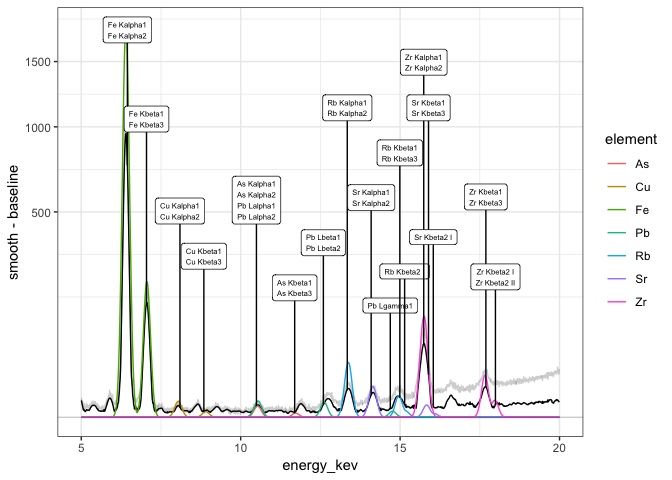
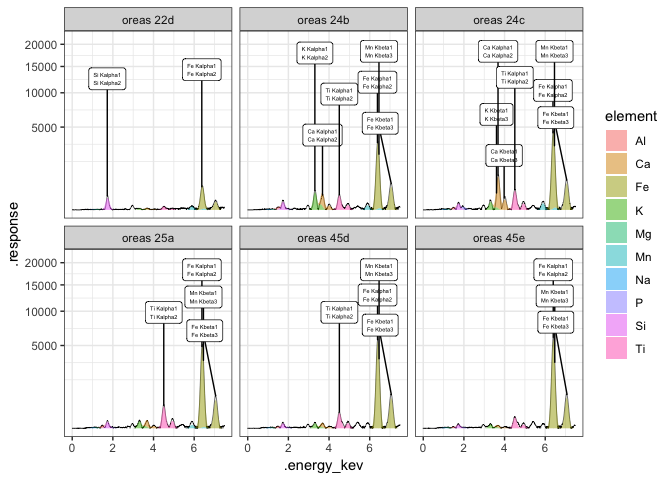
add deconv to readme

Changed region(s): [[0.0, 0.0, 1.0, 1.0], [0.0312, 0.25, 0.0938, 0.2812]]

diff --git a/README.md b/README.md
@@ -87,120 +87,54 @@ Deconvolution
 -------------
 
 ``` r
-spec_simple <- specs %>%
-  slice(7) %>%
+deconvoluted <- specs %>%
+  filter(ConditionSet == "Omnian2") %>%
   xrf_add_baseline_snip(.values = .spectra$cps, iterations = 20) %>%
   xrf_add_smooth_filter(filter = xrf_filter_gaussian(width = 7, alpha = 2.5), .iter = 5) %>%
-  pull(.spectra) %>%
-  first() %>%
-  filter(energy_kev <= 7.5)
+  xrf_add_deconvolution_gls(energy_max_kev = 7.5, peaks = xrf_energies("major"))
 
-rel_peaks <- xrf_energies("major", beam_energy_kev = 10) %>%
-  mutate(
-    jump_ratio = xrf_absorption_jump_ratio(element, edge),
-    transition_prob = xrf_transition_probability(element, trans),
-    yield = xrf_fluorescence_yield(element, edge),
-    excitation_factor = jump_ratio * transition_prob * yield
-  ) %>%
-  group_by(element) %>%
-  mutate(q_norm = excitation_factor / max(excitation_factor)) %>%
-  ungroup() %>%
-  arrange(element, desc(q_norm)) %>%
-  select(element, trans, trans_siegbahn, q_norm, everything())
+certified_vals <- system.file("spectra_files/oreas_concentrations.csv", package = "xrf") %>%
+  read_csv(col_types = cols(standard = col_character(), value = col_double(), .default = col_guess())) %>%
+  filter(method == "4-Acid Digestion") %>%
+  select(SampleIdent = standard, element, certified_value = value)
 
-g <- function(x, mu = 0, sigma = 1, height = 1) height * exp(-0.5 * ((x - mu) / sigma) ^ 2)
+deconv <- deconvoluted %>% 
+  xrf_despectra() %>% 
+  unnest(map(.data$.deconvolution, "peaks")) %>%
+  select(SampleIdent, ConditionSet, kV, element, height, peak_area, peak_area_se)
 
-responses_raw <- rel_peaks %>%
-  mutate(response = map2(energy_kev, q_norm, ~g(spec_simple$energy_kev, mu = .x, sigma = 0.05, height = .y))) %>%
-  group_by(element) %>%
-  summarise(response = list(reduce(response, `+`)), energy_kev = list(spec_simple$energy_kev)) %>%
-  ungroup() %>%
-  mutate(
-    # my guesses at making the things line up right
-    scale = unname(c(
-      "Al" = 10, "Ca" = 80, "Fe" = 5000, 
-      "K" = 50, "Mg" = 5, "Mn" = 40, 
-      "Na" = 5, "P" = 5, "Si"= 90, "Ti" = 420
-    )[element])
-  ) 
-
-# least squares estimation of coefficients
-# Allowing an intercept doesn't work well...produces lots of negative coeffs
-# intercept <- rep(1, length(spec_simple$energy_kev))
-X <- do.call(cbind, responses_raw$response)
-colnames(X) <- responses_raw$element
-df <- as_tibble(cbind(response = spec_simple$smooth - spec_simple$baseline, X))
-fit <- lm(response ~ 0 + ., data = df)
-
-responses_raw$scale_least_sq <- coefficients(fit)
-
-responses <- responses_raw %>%
-  unnest(response, energy_kev)
-
-ggplot(spec_simple, aes(energy_kev, smooth - baseline)) +
-  geom_line(aes(y = cps), alpha = 0.2) +
-  geom_line() +
-  geom_line(aes(y = response * scale_least_sq, col = element), data = responses) +
-  geom_hline(yintercept = 0, alpha = 0.2) +
-  stat_xrf_peaks(epsilon = 5, nudge_y = 20, element_list = "major") +
-  scale_y_sqrt()
+deconv %>%
+  left_join(certified_vals, by = c("SampleIdent", "element")) %>%
+  ggplot(aes(x = certified_value, y = peak_area, col = SampleIdent)) +
+  geom_point() +
+  facet_wrap(~element, scales = "free")
+#> Warning: Removed 11 rows containing missing values (geom_point).
 ```
 
 ![](README-unnamed-chunk-4-1.png)
 
 ``` r
-spec_simple2 <- specs %>%
-  slice(5) %>%
-  xrf_add_baseline_snip(.values = .spectra$cps, iterations = 15) %>%
-  xrf_add_smooth_filter(filter = xrf_filter_gaussian(width = 7, alpha = 2.5), .iter = 10) %>%
-  pull(.spectra) %>%
-  first() %>%
-  filter(energy_kev < 20, energy_kev > 5)
+deconv_spec <- deconvoluted %>%
+  xrf_despectra() %>%
+  unnest(map(.data$.deconvolution, "deconvolution"))
 
-rel_peaks <- xrf_energies(c("Pb", "As", "Cu", "Rb", "Zr", "Sr", "Fe"), beam_energy_kev = 20) %>%
-  mutate(
-    jump_ratio = xrf_absorption_jump_ratio(element, edge),
-    transition_prob = xrf_transition_probability(element, trans),
-    yield = xrf_fluorescence_yield(element, edge),
-    excitation_factor = jump_ratio * transition_prob * yield
-  ) %>%
-  group_by(element) %>%
-  mutate(q_norm = excitation_factor / max(excitation_factor)) %>%
-  ungroup() %>%
-  arrange(element, desc(q_norm)) %>%
-  select(element, trans, trans_siegbahn, q_norm, everything())
+deconv_spec_element <- deconv_spec %>%
+  select(.energy_kev, Al:Ti) %>%
+  gather(element, response, Al:Ti) %>%
+  left_join(deconv, by = "element")
 
-g <- function(x, mu = 0, sigma = 1, height = 1) height * exp(-0.5 * ((x - mu) / sigma) ^ 2)
-
-responses <- rel_peaks %>%
-  mutate(response = map2(energy_kev, q_norm, ~g(spec_simple2$energy_kev, mu = .x, sigma = 0.08, height = .y))) %>%
-  group_by(element) %>%
-  summarise(response = list(reduce(response, `+`)), energy_kev = list(spec_simple2$energy_kev)) %>%
-  ungroup() %>%
-  mutate(
-    scale = c("Pb" = 3, "As" = 1, "Cu" = 2, "Rb" = 25, "Zr" = 90, "Sr" = 8, "Fe" = 1200)[element]
-  ) %>%
-  unnest(response, energy_kev)
-
-ggplot(spec_simple2, aes(energy_kev, smooth - baseline)) +
-  geom_line(aes(y = cps), alpha = 0.2) +
-  geom_line() +
-  geom_line(aes(y = response * scale, col = element), data = responses) +
-  geom_hline(yintercept = 0, alpha = 0.2) +
-  stat_xrf_peaks(element_list = c("Pb", "As", "Cu", "Rb", "Zr", "Sr", "Fe"), nudge_y = 20) +
-  scale_y_sqrt()
+ggplot(deconv_spec, aes(.energy_kev)) +
+  geom_line(aes(y = .response), size = 0.2) +
+  geom_area(aes(x = .energy_kev, y = response * height, fill = element), deconv_spec_element, alpha = 0.5) +
+  facet_wrap(~SampleIdent) +
+  scale_y_sqrt() +
+  stat_xrf_peaks(aes(y = .response), size = 1.5, epsilon = 10, element_list = "major", nudge_y = 100)
+#> Warning in self$trans$transform(x): NaNs produced
+#> Warning: Transformation introduced infinite values in continuous y-axis
+#> Warning: Removed 13213 rows containing missing values (position_stack).
 ```
 
 ![](README-unnamed-chunk-5-1.png)
-
-Peaks
------
-
-$$
-y(i)=∑\_{j=1}^{n}h(i-j)x(j)+e(i)
-$$
-
-*x*<sup>(*k*)</sup>(*i*)=*M*<sup>(*k*)</sup>(*i*)*x*<sup>(*k* − 1)</sup>(*i*)
 
 ``` r
 spec <- specs %>%
